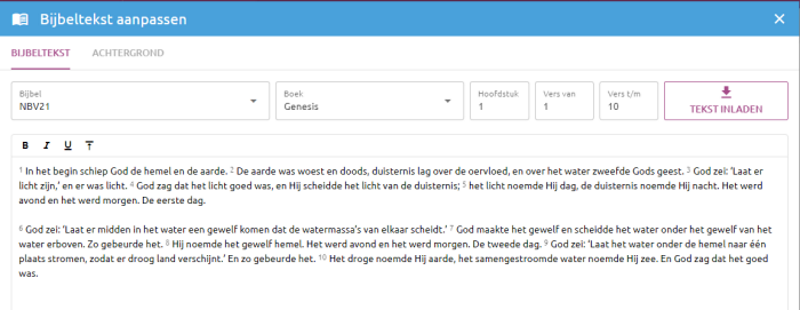
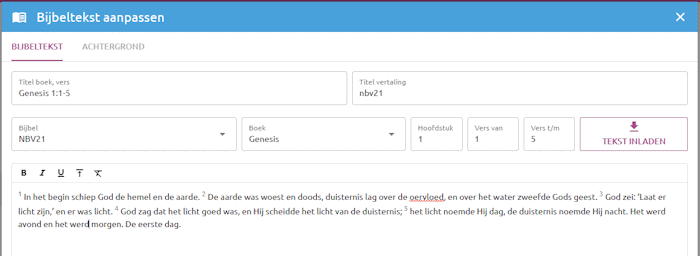
scripture | handmatige titel optie incl. help

diff --git a/src/components/scripture/ScriptureSettings.vue b/src/components/scripture/ScriptureSettings.vue
@@ -10,6 +10,15 @@
     <q-tab-panels v-model="tab" animated>
       <q-tab-panel name="text">
         <div class="row">
+          <div class="col">
+            <q-input v-model="titleBook" outlined label="Titel (boek, vers)" :rules="['required']" @change="titleUpdate" />
+          </div>
+          <div class="col q-pl-sm">
+            <q-input v-model="titleBible" outlined label="Titel (vertaling)" :rules="['required']" @change="titleUpdate" />
+          </div>
+        </div>
+
+        <div class="row">
           <div class="col-4">
             <q-select
               v-model="settings.bible"
@@ -88,7 +97,7 @@
         <q-editor
           ref="editor"
           v-model="settings.text"
-          min-height="60vh"
+          min-height="50vh"
           :toolbar="[['bold', 'italic', 'underline', 'superscript', 'removeFormat']]"
           @paste.prevent.stop="pastePlainText"
         />
@@ -113,10 +122,20 @@ export default {
   data () {
     return {
       tab: 'text',
+      titleBook: '',
+      titleBible: '',
       isLoadingScripture: false
     }
   },
   computed: {
+    title () {
+      const bookDefinition = books.find(b => b.id === this.settings.book)
+      let title = `${bookDefinition.name} ${this.settings.chapter}:${this.settings.verseFrom}`
+      if (this.settings.verseTo) {
+        title += `-${this.settings.verseTo}`
+      }
+      return `${title}`
+    },
     bibleOptions () {
       return bibles.map(b => ({
         label: b.name,
@@ -130,7 +149,17 @@ export default {
       }))
     }
   },
+  mounted () {
+    if (this.settings.title) {
+      const i = this.settings.title.indexOf('<small>(')
+      this.titleBook = i > -1 ? this.settings.title.substring(0, i - 1).trim() : this.settings.title
+      this.titleBible = i > -1 ? this.settings.title.substring(i + 8, this.settings.title.length - 9).trim() : ''
+    }
+  },
   methods: {
+    titleUpdate () {
+      this.settings.title = this.titleBible ? `${this.titleBook} <small>(${this.titleBible})</small>` : `${this.titleBook}`
+    },
     async loadScripture () {
       this.isLoadingScripture = true
 
@@ -153,6 +182,9 @@ export default {
       } finally {
         this.isLoadingScripture = false
       }
+      this.titleBook = this.title
+      this.titleBible = this.settings.bible
+      this.titleUpdate()
     },
     pastePlainText (e) {
       const text = e.clipboardData.getData('text/plain')

diff --git a/src/components/help/HelpScripture.vue b/src/components/help/HelpScripture.vue
@@ -12,7 +12,8 @@
     </p>
     <p>
       Je zie nu onderstaand scherm verschijnen.<br>
-      Vul hier de <i>bijbel</i>vertaling, het <i>boek</i>, het <i>hoofdstuk</i> en het <i>vers vanaf</i> & <i>t/m</i> in de betreffende vakken in.<br>
+      Op de eerste regel kan je de titel (bijbelboek + vers) & eventueel de vertaling invullen of aanpassen. Dit gebeurt ook na inladen van een bijbeltekst via de 2e regel aan invoervelden. Wanneer er niets is ingevoerd wordt de titel automatisch gegenereerd.<br>
+      Vul op de 2e regel de <i>bijbel</i>vertaling, het <i>boek</i>, het <i>hoofdstuk</i> en het <i>vers vanaf</i> & <i>t/m</i> in de betreffende vakken in.<br>
       Klik hiernaa op de knop <img src="../../assets/help/scripturetekstinladen.png"> om de tekst in het tekstveld te zetten vanuit de database.<br>
       De opmaak van de teksten wordt grotendeels door het programma geregeld. Zie onder wat aandachtspunten.<br>
       <img src="../../assets/help/addscripturedialog.png">
@@ -43,7 +44,7 @@
           Er is een internet verbinding nodig om de tekst vanuit de database te kunnen inladen.
         </li>
         <li>
-          Het gebruik van de knop "tekst inladen" vervangt de bestaande tekst.
+          Het gebruik van de knop "tekst inladen" vervangt de bestaande tekst en titel.
         </li>
         <li>
           Het gekozen boek & vertaling, hoofdstuk e.d. wordt als titel op de beamer en livestream weergegeven.

diff --git a/src/components/scripture/ScriptureOutputBeamer.vue b/src/components/scripture/ScriptureOutputBeamer.vue
@@ -17,7 +17,7 @@ export default {
   extends: BaseOutput,
   computed: {
     title () {
-      return this.presentationType.title(this.settings)
+      return this.settings.title ? this.settings.title : this.presentationType.title(this.settings)
     },
     lines () {
       const section = this.presentation.sections?.[this.presentation.selectedSectionIndex]

diff --git a/src/components/scripture/ScriptureOutputLivestream.vue b/src/components/scripture/ScriptureOutputLivestream.vue
@@ -13,7 +13,7 @@ export default {
   extends: BaseOutput,
   computed: {
     title () {
-      return this.presentationType.title(this.settings)
+      return this.settings.title ? this.settings.title : this.presentationType.title(this.settings)
     },
     text () {
       const section = this.presentation.sections?.[this.presentation.selectedSectionIndex]

diff --git a/src/components/presentation-types.js b/src/components/presentation-types.js
@@ -143,6 +143,7 @@ export default [
     icon: 'menu_book',
     color: 'brown',
     settings: {
+      title: '',
       bible: 'nbv21',
       book: 'GEN',
       chapter: null,
